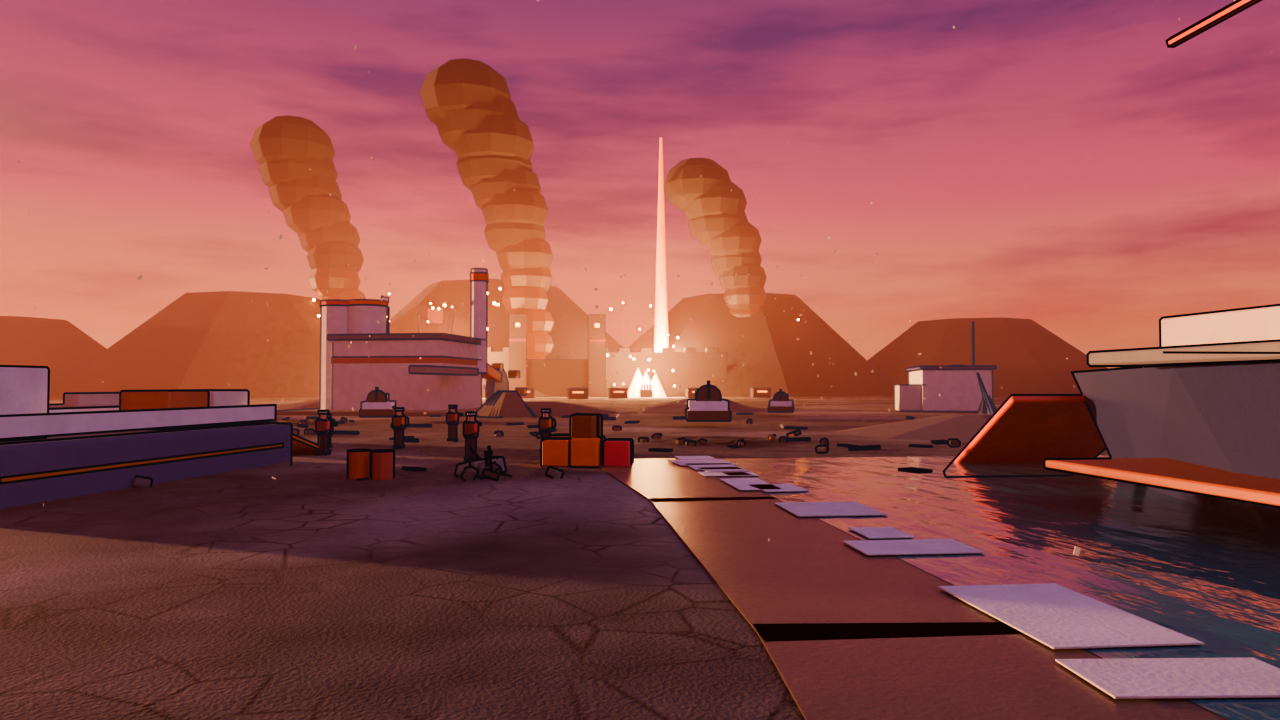
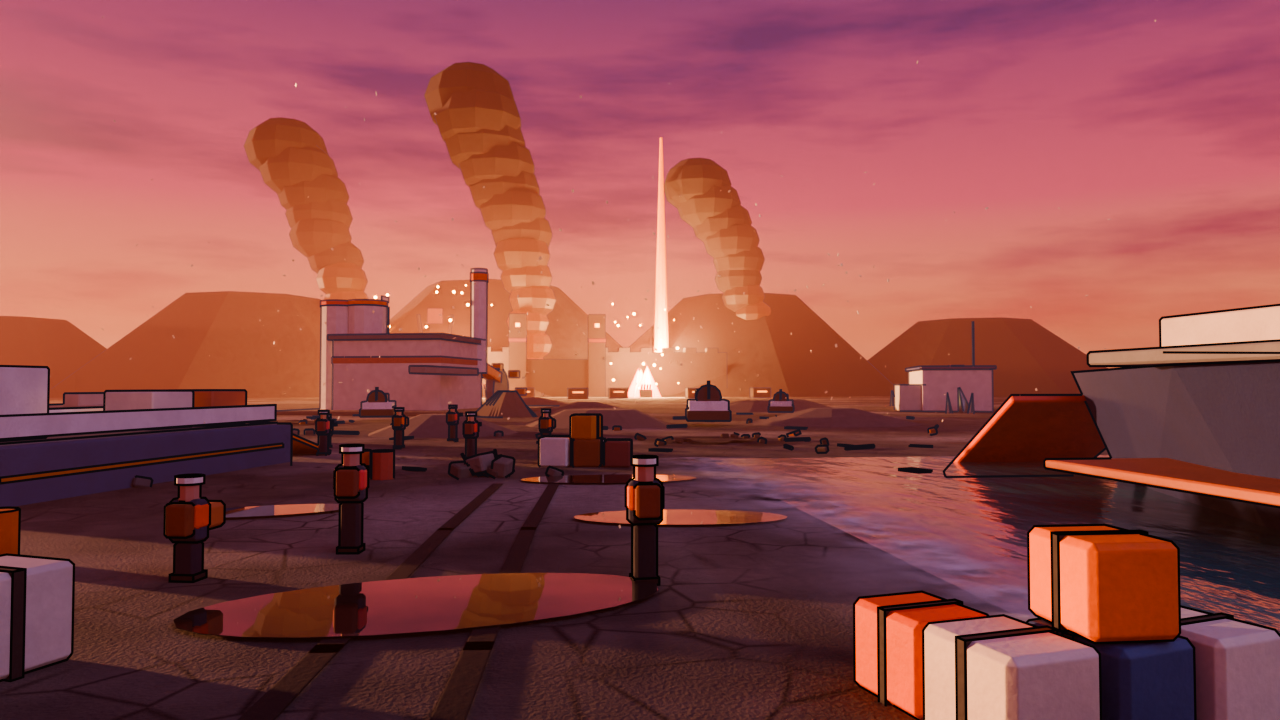
fix(art): soft noise-masked surf, act4 foreground, no stray crane bar [M8-14]
Claude-Session: https://claude.ai/code/session_01KFnB2Y1gLSS4NsvbCWyaCy

diff --git a/tools/art/stills/still_expedition_kit.py b/tools/art/stills/still_expedition_kit.py
@@ -120,29 +120,51 @@ def sea(y0, y1=900.0, x0=-700.0, x1=700.0, z=0.05, **kw):
     return K.nolines(o)
 
 
+def foam_mat(col="#F4F8F4", alpha=0.85, scale=0.8, lo=0.36, hi=0.64):
+    """Soft, noise-masked, semi-transparent strip: fades out across its width (Generated Y) and breaks up along it."""
+    mt, nt, out = K._new_mat("foam_" + col + str(alpha))
+    N, L = K._nodes(nt)
+    tc = N("ShaderNodeTexCoord")
+    sep = N("ShaderNodeSeparateXYZ"); L(tc.outputs["Generated"], sep.inputs[0])
+    t = N("ShaderNodeMath"); t.operation = "MULTIPLY_ADD"; t.inputs[1].default_value = 2.0; t.inputs[2].default_value = -1.0
+    L(sep.outputs["Y"], t.inputs[0])
+    ab = N("ShaderNodeMath"); ab.operation = "ABSOLUTE"; L(t.outputs[0], ab.inputs[0])
+    edge = N("ShaderNodeMath"); edge.operation = "MULTIPLY_ADD"; edge.inputs[1].default_value = -1.0; edge.inputs[2].default_value = 1.0
+    L(ab.outputs[0], edge.inputs[0])
+    pos = N("ShaderNodeNewGeometry").outputs["Position"]
+    nz = K._ramp(nt, K._noise(nt, pos, scale, 4).outputs["Fac"], [(lo, (0, 0, 0, 1)), (hi, (1, 1, 1, 1))])
+    mk = N("ShaderNodeMath"); mk.operation = "MULTIPLY"; L(edge.outputs[0], mk.inputs[0]); L(nz.outputs[0], mk.inputs[1])
+    al = N("ShaderNodeMath"); al.operation = "MULTIPLY"; al.inputs[1].default_value = alpha; L(mk.outputs[0], al.inputs[0])
+    b = N("ShaderNodeBsdfPrincipled"); b.inputs["Base Color"].default_value = K.lin(col); b.inputs["Roughness"].default_value = 1.0
+    L(al.outputs[0], b.inputs["Alpha"]); L(b.outputs[0], out.inputs["Surface"])
+    return mt
+
+
+def _strip(p0, p1, width, z, mt):
+    d = Vector((p1[0] - p0[0], p1[1] - p0[1], 0))
+    ang = math.atan2(d.y, d.x)
+    bpy.ops.mesh.primitive_plane_add(size=1, location=((p0[0] + p1[0]) / 2, (p0[1] + p1[1]) / 2, z))
+    o = bpy.context.active_object
+    o.name = "foam"
+    o.scale = (d.length * 1.03, width, 1.0)
+    o.rotation_euler = (0, 0, ang)
+    o.data.materials.append(mt)
+    return K.nolines(o)
+
+
 def foam_line(pts, width=1.2, z=0.08, rng=None, col="#F2F6F2"):
-    """Broken white surf along a polyline of (x,y)."""
-    rng = rng or random.Random(3)
-    for (x0, y0), (x1, y1) in zip(pts[:-1], pts[1:]):
-        d = Vector((x1 - x0, y1 - y0, 0))
-        ang = math.atan2(d.y, d.x)
-        k = max(1, int(d.length / 3.0))
-        for i in range(k):
-            if rng.random() < 0.3:
-                continue
-            t = (i + rng.uniform(0.2, 0.8)) / k
-            w = width * rng.uniform(0.4, 1.8)
-            o = K.box("foam", (x0 + d.x * t, y0 + d.y * t + rng.uniform(-0.9, 0.9), z), (d.length / k * rng.uniform(0.3, 1.1), w, 0.02),
-                      m(col, 1.0), rot=(0, 0, ang))
-            K.nolines(o)
+    """Soft surf along a polyline of (x,y): a wide faint wash plus a narrower brighter streaky edge."""
+    wash = foam_mat(col, 0.55, 0.45, 0.30, 0.70)
+    edge = foam_mat(col, 0.95, 1.1, 0.42, 0.62)
+    for p0, p1 in zip(pts[:-1], pts[1:]):
+        _strip(p0, p1, width * 5.0, z, wash)
+        _strip(p0, p1, width * 2.0, z + 0.01, edge)
 
 
 def wet_sand(pts, width=6.0, z=0.035):
-    for (x0, y0), (x1, y1) in zip(pts[:-1], pts[1:]):
-        d = Vector((x1 - x0, y1 - y0, 0))
-        ang = math.atan2(d.y, d.x)
-        o = K.box("wet", ((x0 + x1) / 2, (y0 + y1) / 2, z), (d.length * 1.05, width, 0.015), m("#6D5F4C", 0.35), rot=(0, 0, ang))
-        K.nolines(o)
+    mt = foam_mat("#3F362B", 0.55, 0.3, 0.2, 0.8)
+    for p0, p1 in zip(pts[:-1], pts[1:]):
+        _strip(p0, p1, width, z, mt)
 
 
 def wake(loc, yaw, length=24.0, width=5.0, z=0.09):
@@ -221,7 +243,7 @@ def carrier(loc, yaw=0.0, s=1.0, wake_on=True, jets=5):
         wake(loc, yaw, length=L * 0.8, width=B * 0.9)
 
 
-def command_ship(loc, yaw=0.0, s=1.0, wake_on=True, bow_down=False):
+def command_ship(loc, yaw=0.0, s=1.0, wake_on=True, bow_down=False, cranes=True):
     """Command Ship: broad bluff hull, tall white bridge block, cranes, cargo hatches in copper and a flagpole with the white pennant."""
     f = Frame((loc[0], loc[1], 0), yaw)
     L, B, H = 62 * s, 14 * s, 6.0 * s
@@ -240,7 +262,7 @@ def command_ship(loc, yaw=0.0, s=1.0, wake_on=True, bow_down=False):
     for k, fo in enumerate((L * 0.12, L * 0.28, -L * 0.34)):
         col = (COPPER, "#D9D9CE", COPPER_D)[k]
         f.box("hatch", fo, 0, zt + 0.5 * s, (B * 0.6, L * 0.1, 1.0 * s), col, 0.6)
-    for fo in (L * 0.2, -L * 0.24):
+    for fo in ((L * 0.2, -L * 0.24) if cranes else ()):
         for side in (-1, 1):
             f.cyl("crane", fo, side * B * 0.32, zt + 4.5 * s, 0.2 * s, 9 * s, ORANGE, verts=6)
             f.cyl("boom", fo + 3 * s, side * B * 0.32, zt + 8.6 * s, 0.14 * s, 8 * s, ORANGE, verts=5, axis="f")
@@ -697,6 +719,26 @@ def ships_far(rng, n, xr, y, scale=(0.8, 1.1), kinds=("destroyer", "tender"), wa
         k = rng.choice(kinds)
         fn = {"destroyer": destroyer, "tender": tender, "carrier": carrier, "command": command_ship}[k]
         fn((x, y + rng.uniform(-14, 14)), rng.uniform(*yaw) + math.pi / 2 * 0, rng.uniform(*scale), wake_on=wake_on)
+
+
+def light_shaft(base, top, r_base=14.0, col="#FFE9B8", alpha=0.10, emit=1.6):
+    """Faint translucent cone of light falling from a gap in the clouds (apex at top)."""
+    base, top = Vector(base), Vector(top)
+    d = top - base
+    bpy.ops.mesh.primitive_cone_add(vertices=24, radius1=r_base, radius2=0.5, depth=d.length, location=(base + top) / 2)
+    o = bpy.context.active_object
+    o.name = "shaft"
+    o.rotation_euler = d.to_track_quat("Z", "Y").to_euler()
+    mt, nt, out = K._new_mat("shaft")
+    b = nt.nodes.new("ShaderNodeBsdfPrincipled")
+    b.inputs["Base Color"].default_value = K.lin(col)
+    b.inputs["Emission Color"].default_value = K.lin(col)
+    b.inputs["Emission Strength"].default_value = emit
+    b.inputs["Alpha"].default_value = alpha
+    nt.links.new(b.outputs[0], out.inputs["Surface"])
+    o.data.materials.append(mt)
+    o.visible_shadow = False
+    return K.nolines(o)
 
 
 # ------------------------------------------------------------------------------------------------ render harness

diff --git a/tools/art/stills/still_expedition_act4.py b/tools/art/stills/still_expedition_act4.py
@@ -88,7 +88,7 @@ def build():
     E.carrier((170, -120), 0.15, 1.2, wake_on=False, jets=3)
 
     # foreground right: the Command Ship's bow run up on the shore, ramp down
-    E.command_ship((15.5, -28), 0.0, 0.85, wake_on=False, bow_down=True)
+    E.command_ship((15.5, -28), 0.0, 0.85, wake_on=False, bow_down=True, cranes=False)
     # foreground left: beached landing craft and crew filing onto the ash
     E.landing_craft((-17, -1), 0.25, 1.15, ramp_down=True, rng=R)
     for i, (x, y) in enumerate(((-12.5, 8.0), (-10.0, 12.0), (-13.5, 12.5), (-6.0, 5.0), (-3.0, 9.0), (-8.0, 17.0))):
@@ -99,6 +99,18 @@ def build():
     K.barrel_drum((-8.2, -1.8), E.m("#C26A1E"))
     K.rubble_pile((-5.0, -1.2), r=1.2, n=12, rng=R, h=0.6)
     E.tent((-27, 20), 0.3, 1.1, col="#BDB8AA")
+    # foreground: puddles mirroring the red sky, supplies and crew coming up the beach
+    for (px, py, rx, ry, rt) in ((-4.5, -18.0, 3.2, 1.5, 0.2), (0.0, -11.0, 2.4, 1.1, -0.1), (-9.5, -9.0, 2.0, 0.9, 0.3), (-1.0, -3.0, 2.8, 1.2, 0.0)):
+        K.puddle((px, py), rx, ry, rt)
+    E.crate_stack_x((-10.5, -21.0), 0.4, rng=R, n=6)
+    E.crate_stack_x((1.8, -23.0), -0.2, rng=R, n=4, s=0.9)
+    for p, y, kn in (((-6.5, -14.0), 0.1, False), ((-8.5, -16.0), 0.2, True), ((-1.5, -17.0), -0.1, False)):
+        E.xfigure(p, y, kneel=kn, hold="crate" if kn else "rifle")
+    K.barrel_drum((-13.0, -14.0), E.m("#C26A1E"))
+    K.barrel_drum((-12.2, -14.5), E.m("#C26A1E"))
+    K.rubble_pile((-2.5, -26.0), r=1.3, n=12, rng=R, h=0.7)
+    K.rubble_pile((-12.0, -26.0), r=1.0, n=9, rng=R, h=0.5)
+    K.tire_tracks([(-5.0, -28), (-4.6, -20), (-4.2, -12), (-3.6, -4)], col="#1E1815")
 
     # midground: Dredge Works going up on the ash, survey hovers skimming ahead
     E.dredge_works((-16, 70), 0.28, 1.35)
